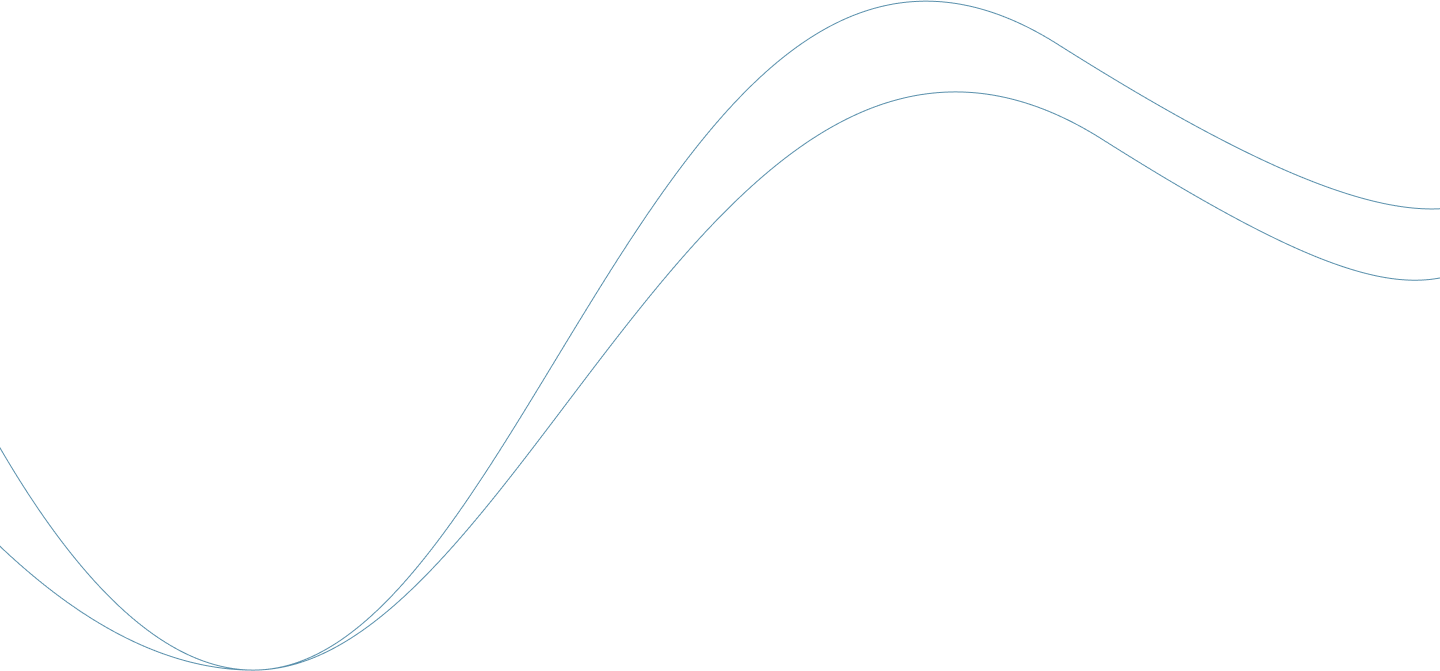
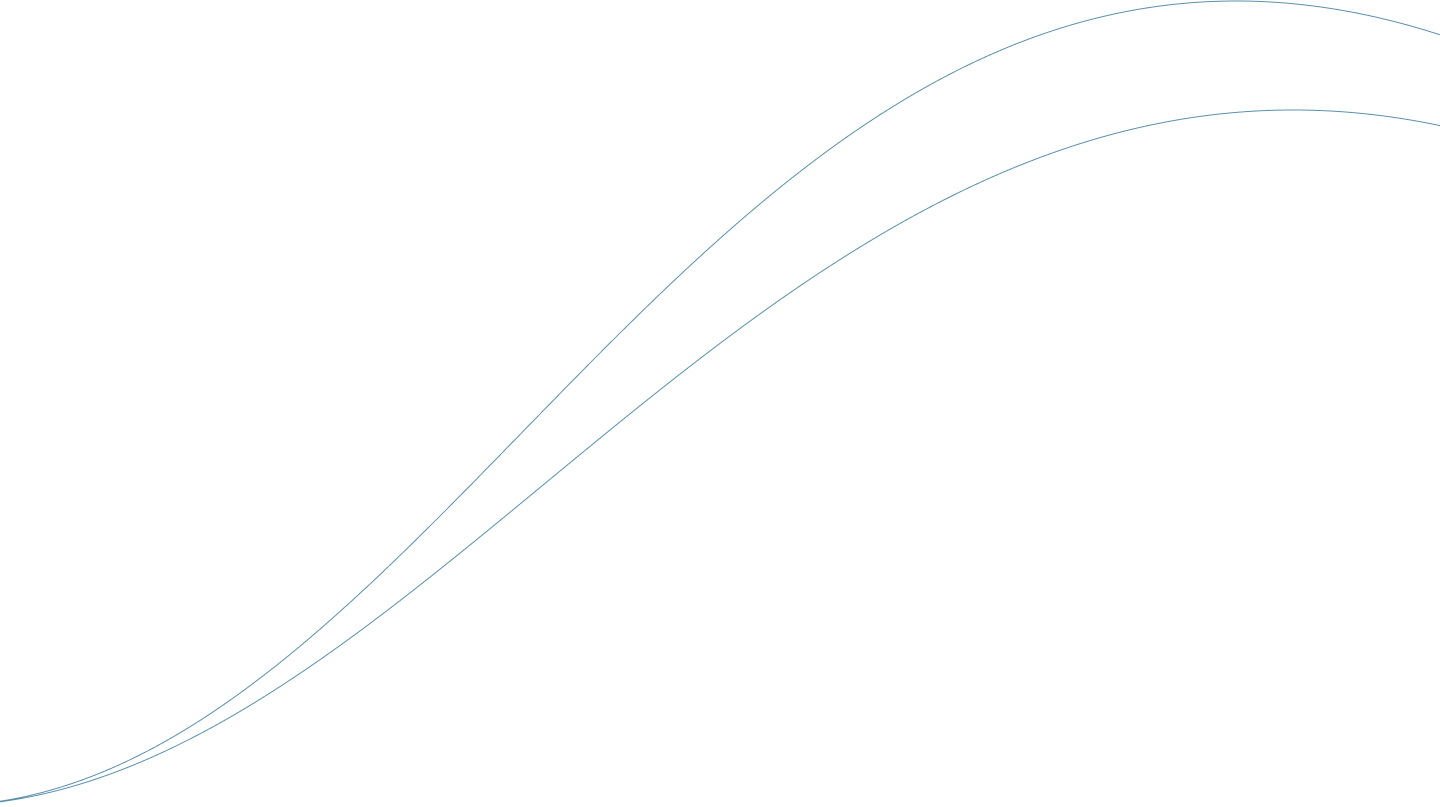
Background changes

diff --git a/lib/widgets/responsive_bg.dart b/lib/widgets/responsive_bg.dart
@@ -12,32 +12,62 @@ class ResponsiveBackground extends StatelessWidget {
       color: Color(0xFFDBEFFA),
       child: Stack(
         children: [
-          Positioned(
-            top: MediaQuery.of(context).size.height / 4.3,
-            left: 0,
+          Center(
             child: Container(
+              constraints: BoxConstraints(
+                maxHeight: 800,
+                minWidth: 600
+              ),
               width: MediaQuery.of(context).size.width,
-              height: MediaQuery.of(context).size.height / 2,
+              height: MediaQuery.of(context).size.height/2,
               decoration: BoxDecoration(
                 image: DecorationImage(
-                  image: AssetImage('lines.png'),
+                  image: AssetImage('assets/lines.png'),
                   fit: BoxFit.fill,
                 ),
               ),
             ),
           ),
           Positioned(
-            child: Image(
-              image: AssetImage('rectangle_topleft.png'),
-              height: MediaQuery.of(context).size.height / 2,
-            ),
             top: 0,
             left: 0,
+            child: Container(
+              constraints: BoxConstraints(
+                maxWidth: 560*0.72,
+                minWidth: 560*0.5,
+              ),
+              width: MediaQuery.of(context).size.width/2.2,
+              child: AspectRatio(
+                aspectRatio: 560/638,
+                child: Container(
+                  decoration: BoxDecoration(
+                    image: DecorationImage(
+                      image: AssetImage('assets/rectangle_topleft.png'),
+                      fit: BoxFit.fill,
+                    ),
+                  ),
+                ),
+              ),
+            ),
           ),
           Positioned(
-            child: Image(
-              image: AssetImage('rectangle_bottomright.png'),
-              height: MediaQuery.of(context).size.height / 2,
+            child: Container(
+              constraints: BoxConstraints(
+                maxWidth: 467*0.72,
+                minWidth: 467*0.5,
+              ),
+              width: MediaQuery.of(context).size.width/2.2,
+              child: AspectRatio(
+                aspectRatio: 467/733,
+                child: Container(
+                  decoration: BoxDecoration(
+                    image: DecorationImage(
+                      image: AssetImage('assets/rectangle_bottomright.png'),
+                      fit: BoxFit.fill,
+                    ),
+                  ),
+                ),
+              ),
             ),
             bottom: 0,
             right: 0,

diff --git a/lib/widgets/responsive_box.dart b/lib/widgets/responsive_box.dart
@@ -9,7 +9,7 @@ class ResponsiveBox extends StatelessWidget {
   Widget build(BuildContext context) {
     return Container(
       constraints: BoxConstraints(maxWidth: 350),
-      width: MediaQuery.of(context).size.width / 2,
+      padding: EdgeInsets.symmetric(horizontal: 30),
       decoration: BoxDecoration(
         color: Colors.white,
         borderRadius: BorderRadius.all(Radius.circular(20)),

diff --git a/lib/widgets/login_box.dart b/lib/widgets/login_box.dart
@@ -1,5 +1,3 @@
-import 'dart:html';
-
 import 'package:app_fono/widgets/custom_button.dart';
 import 'package:app_fono/widgets/feedback_icon.dart';
 import 'package:app_fono/widgets/responsive_box.dart';
